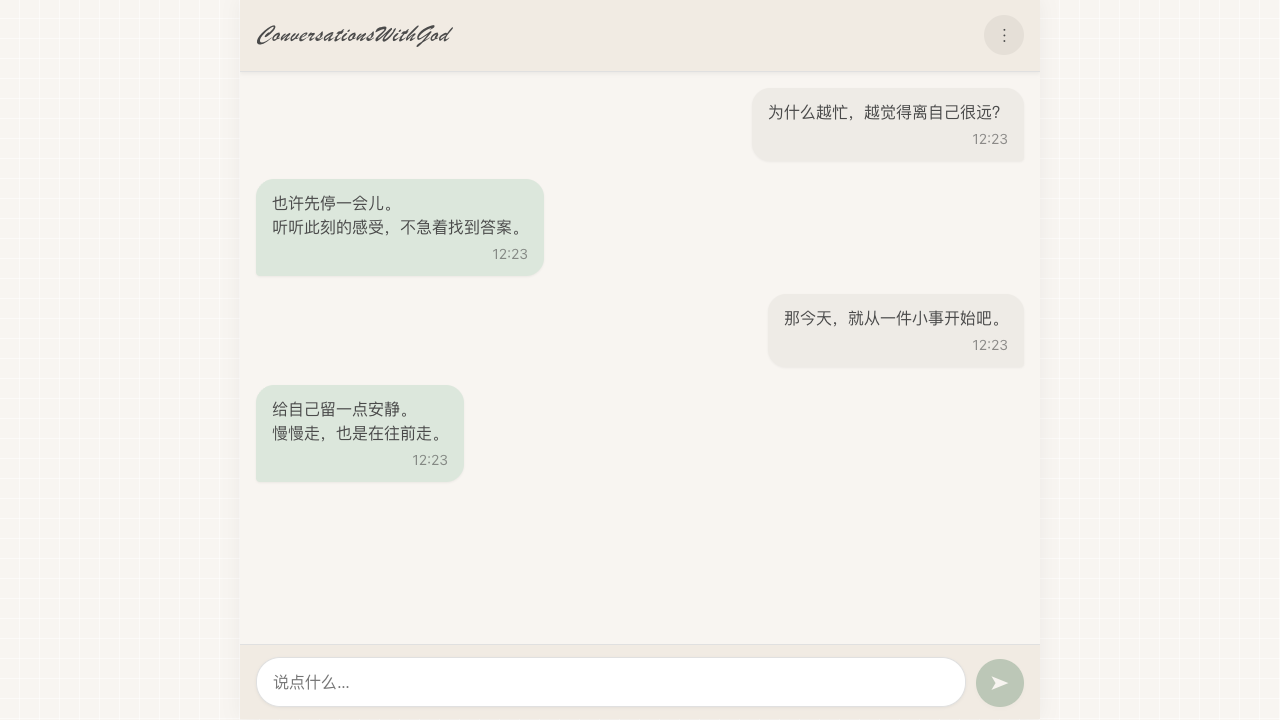
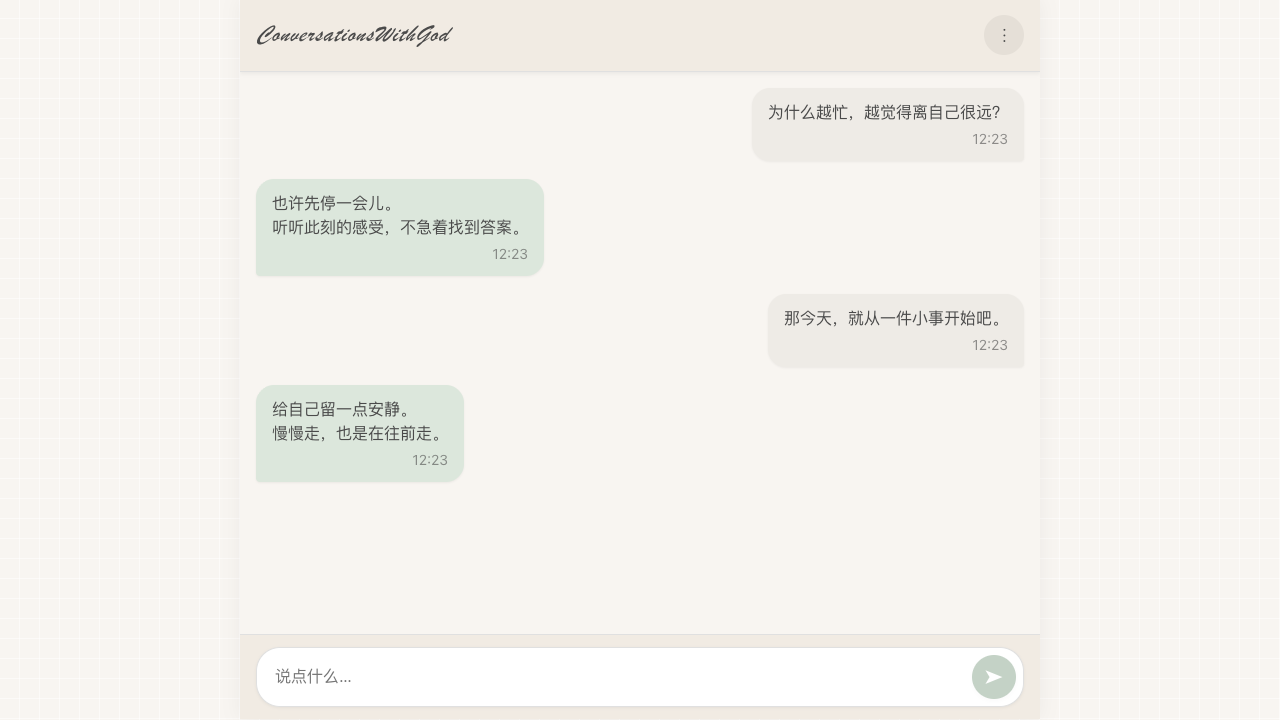
Keep the send action inside the growing composer (#4)

Changed region(s): [[0.1875, 0.8861, 0.8125, 1.0]]

diff --git a/index.html b/index.html
@@ -422,38 +422,50 @@
             flex-shrink: 0;
         }
 
-        #messageInput {
-            flex: 1;
-            padding: 12px 16px;
+        .composer {
+            position: relative;
+            width: 100%;
+            min-width: 0;
             border: 1px solid var(--border-color);
             border-radius: 24px;
-            font-size: var(--font-size-normal);
             background-color: var(--input-background);
-            color: var(--text-color);
-            transition: background-color .2s, color .2s, transform .2s;
-            outline: none;
             box-shadow: 0 1px 3px var(--shadow-color);
-            -webkit-appearance: none; /* Remove iOS default styles */
-            min-width: 0; /* Prevent flex item overflow */
+            transition: background-color .2s, border-color .2s;
         }
 
-        #messageInput:focus {
+        .composer:focus-within {
             border-color: var(--button-color);
             box-shadow: 0 0 0 2px rgba(124, 156, 129, 0.2);
         }
 
+        #messageInput {
+            display: block;
+            width: 100%;
+            min-height: 58px;
+            padding: 16px 64px 16px 18px;
+            border: 0;
+            border-radius: inherit;
+            font-size: var(--font-size-normal);
+            background: transparent;
+            color: var(--text-color);
+            outline: none;
+            -webkit-appearance: none;
+        }
+
         /* Send button styling */
         #sendButton {
-            margin-left: 10px;
+            position: absolute;
+            right: 7px;
+            bottom: 7px;
             background-color: var(--button-color);
             color: var(--button-text);
             border: none;
-            width: 48px;
-            height: 48px;
-            min-width: 48px;
-            min-height: 48px;
-            max-width: 48px;
-            max-height: 48px;
+            width: 44px;
+            height: 44px;
+            min-width: 44px;
+            min-height: 44px;
+            max-width: 44px;
+            max-height: 44px;
             border-radius: 50%;
             cursor: pointer;
             transition: background-color .2s, color .2s, transform .2s;
@@ -870,7 +882,6 @@
             }
 
             #messageInput {
-                padding: 10px 14px;
                 font-size: 16px; /* Prevent zoom on input focus on iOS */
             }
 
@@ -1107,10 +1118,12 @@
         <div id="saveState" class="sr-only" role="status">Opening conversation…</div>
         <!-- Input area -->
         <div class="chat-input-area" role="form">
+            <div class="composer">
             <textarea id="messageInput" rows="1" placeholder="Say something…" aria-label="Type your message"></textarea>
             <button id="sendButton" title="Send message" aria-label="Send message">
                 <span class="icon">➤</span>
             </button>
+            </div>
         </div>
     </div>
 
@@ -2438,7 +2451,7 @@ root.CWGTranscript={Transcript,ScrollIndicator};
             function resizeComposer() {
                 const top = messagesContainer.scrollTop, pinned = transcript.pinned;
                 messageInput.style.height = 'auto';
-                messageInput.style.height = (messageInput.scrollHeight + 2) + 'px';
+                messageInput.style.height = messageInput.scrollHeight + 'px';
                 if(pinned)messagesContainer.scrollTop=messagesContainer.scrollHeight;
                 else messagesContainer.scrollTop=top;
             }

diff --git a/web/index.template.html b/web/index.template.html
@@ -422,38 +422,50 @@
             flex-shrink: 0;
         }
 
-        #messageInput {
-            flex: 1;
-            padding: 12px 16px;
+        .composer {
+            position: relative;
+            width: 100%;
+            min-width: 0;
             border: 1px solid var(--border-color);
             border-radius: 24px;
-            font-size: var(--font-size-normal);
             background-color: var(--input-background);
-            color: var(--text-color);
-            transition: background-color .2s, color .2s, transform .2s;
-            outline: none;
             box-shadow: 0 1px 3px var(--shadow-color);
-            -webkit-appearance: none; /* Remove iOS default styles */
-            min-width: 0; /* Prevent flex item overflow */
+            transition: background-color .2s, border-color .2s;
         }
 
-        #messageInput:focus {
+        .composer:focus-within {
             border-color: var(--button-color);
             box-shadow: 0 0 0 2px rgba(124, 156, 129, 0.2);
         }
 
+        #messageInput {
+            display: block;
+            width: 100%;
+            min-height: 58px;
+            padding: 16px 64px 16px 18px;
+            border: 0;
+            border-radius: inherit;
+            font-size: var(--font-size-normal);
+            background: transparent;
+            color: var(--text-color);
+            outline: none;
+            -webkit-appearance: none;
+        }
+
         /* Send button styling */
         #sendButton {
-            margin-left: 10px;
+            position: absolute;
+            right: 7px;
+            bottom: 7px;
             background-color: var(--button-color);
             color: var(--button-text);
             border: none;
-            width: 48px;
-            height: 48px;
-            min-width: 48px;
-            min-height: 48px;
-            max-width: 48px;
-            max-height: 48px;
+            width: 44px;
+            height: 44px;
+            min-width: 44px;
+            min-height: 44px;
+            max-width: 44px;
+            max-height: 44px;
             border-radius: 50%;
             cursor: pointer;
             transition: background-color .2s, color .2s, transform .2s;
@@ -870,7 +882,6 @@
             }
 
             #messageInput {
-                padding: 10px 14px;
                 font-size: 16px; /* Prevent zoom on input focus on iOS */
             }
 
@@ -1107,10 +1118,12 @@
         <div id="saveState" class="sr-only" role="status">Opening conversation…</div>
         <!-- Input area -->
         <div class="chat-input-area" role="form">
+            <div class="composer">
             <textarea id="messageInput" rows="1" placeholder="Say something…" aria-label="Type your message"></textarea>
             <button id="sendButton" title="Send message" aria-label="Send message">
                 <span class="icon">➤</span>
             </button>
+            </div>
         </div>
     </div>
 
@@ -2160,7 +2173,7 @@
             function resizeComposer() {
                 const top = messagesContainer.scrollTop, pinned = transcript.pinned;
                 messageInput.style.height = 'auto';
-                messageInput.style.height = (messageInput.scrollHeight + 2) + 'px';
+                messageInput.style.height = messageInput.scrollHeight + 'px';
                 if(pinned)messagesContainer.scrollTop=messagesContainer.scrollHeight;
                 else messagesContainer.scrollTop=top;
             }

diff --git a/service-worker.js b/service-worker.js
@@ -1,6 +1,6 @@
 // Cache only this application's public assets; conversations remain in IndexedDB.
 const PREFIX = 'cwg:' + self.registration.scope + ':';
-const CACHE_NAME = PREFIX + '2.1.1';
+const CACHE_NAME = PREFIX + '2.1.2';
 const ASSETS = ['./','./index.html','./manifest.json','./icons/favicon-32x32.png','./icons/apple-touch-icon.png','./icons/icon-192x192.png','./icons/icon-512x512.png','./icons/maskable-icon.png'];
 self.addEventListener('install',event=>event.waitUntil(caches.open(CACHE_NAME).then(cache=>cache.addAll(ASSETS)).then(()=>self.skipWaiting())));
 self.addEventListener('activate',event=>event.waitUntil(caches.keys().then(keys=>Promise.all(keys.filter(key=>key.startsWith(PREFIX)&&key!==CACHE_NAME).map(key=>caches.delete(key)))).then(()=>self.clients.claim())));

diff --git a/docs/DEVELOPMENT.md b/docs/DEVELOPMENT.md
@@ -30,3 +30,5 @@ The conversation keeps native wheel, touch and keyboard scrolling with a custom 
 Aging is applied to a shared content wrapper so the body and timestamp fade and blur together, while deletion controls stay clear. Language follows the browser; Chinese and English documentation screenshots are captured from isolated example histories with `npm run screenshots`.
 
 These choices follow [Apple's motion guidance](https://developer.apple.com/design/human-interface-guidelines/motion): purposeful, brief feedback, input available during animation, and accessibility preferences. Smoothness and power are tested separately from correctness; there is no measured battery-life claim.
+
+The composer keeps its send button inside a single rounded input surface. A 44 px target stays in the lower-right corner as the draft grows, with reserved text padding and no visible input scrollbar. Run `npm run test:composer` for narrow layouts, both themes, caret editing and complete sends.
